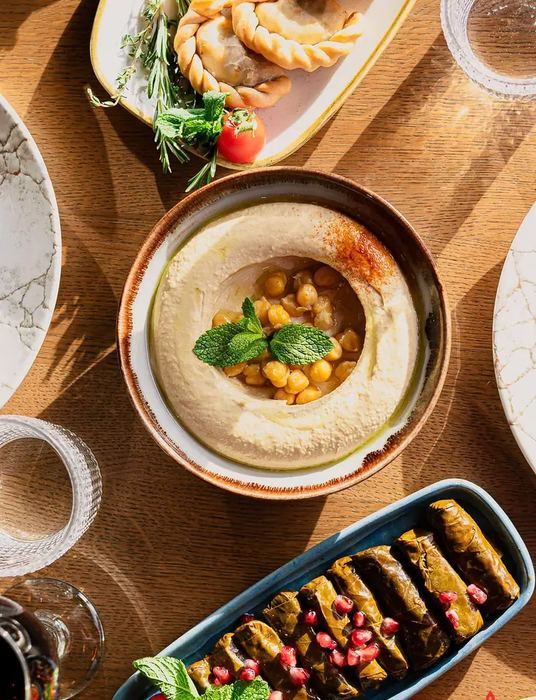
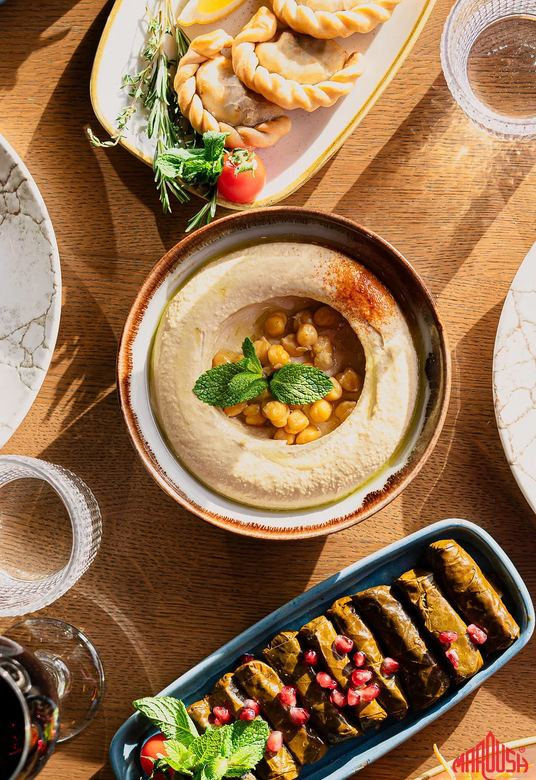
Newsletter: sharper hero, fuller lunch image, phone fix
Claude-Session: https://claude.ai/code/session_01RaPxiy856A86tV6TS6tYHr

diff --git a/email/maroush-newsletter-nov-2026.html b/email/maroush-newsletter-nov-2026.html
@@ -24,7 +24,7 @@
   @media screen and (max-width:620px){
     .wrap{width:100% !important;}
     .px{padding-left:20px !important;padding-right:20px !important;}
-    .stack{display:block !important;width:100% !important;max-width:100% !important;}
+    .stack{display:block !important;width:100% !important;max-width:100% !important;box-sizing:border-box !important;}
     .stack-pad{padding:0 0 16px 0 !important;}
     .hide-m{display:none !important;max-height:0 !important;overflow:hidden !important;}
     .img-full{width:100% !important;height:auto !important;}
@@ -145,7 +145,7 @@
             </td></tr>
           </table>
         </td>
-        <td class="stack" width="46%" valign="top" style="background:#b52403;border-radius:0 14px 14px 0;overflow:hidden;">
+        <td class="stack" width="46%" valign="top" style="background:#b52403;border-radius:0 14px 14px 0;overflow:hidden;line-height:0;font-size:0;">
           <a href="https://www.maroush.com/lunch"><img class="img-full" src="https://raw.githubusercontent.com/thewondergroup/maroush/main/email/img/lunch-mezze.jpg" width="246" alt="Hommos and cold mezze" style="width:100%;max-width:268px;height:auto;border-radius:0 14px 14px 0;"></a>
         </td>
       </tr>
